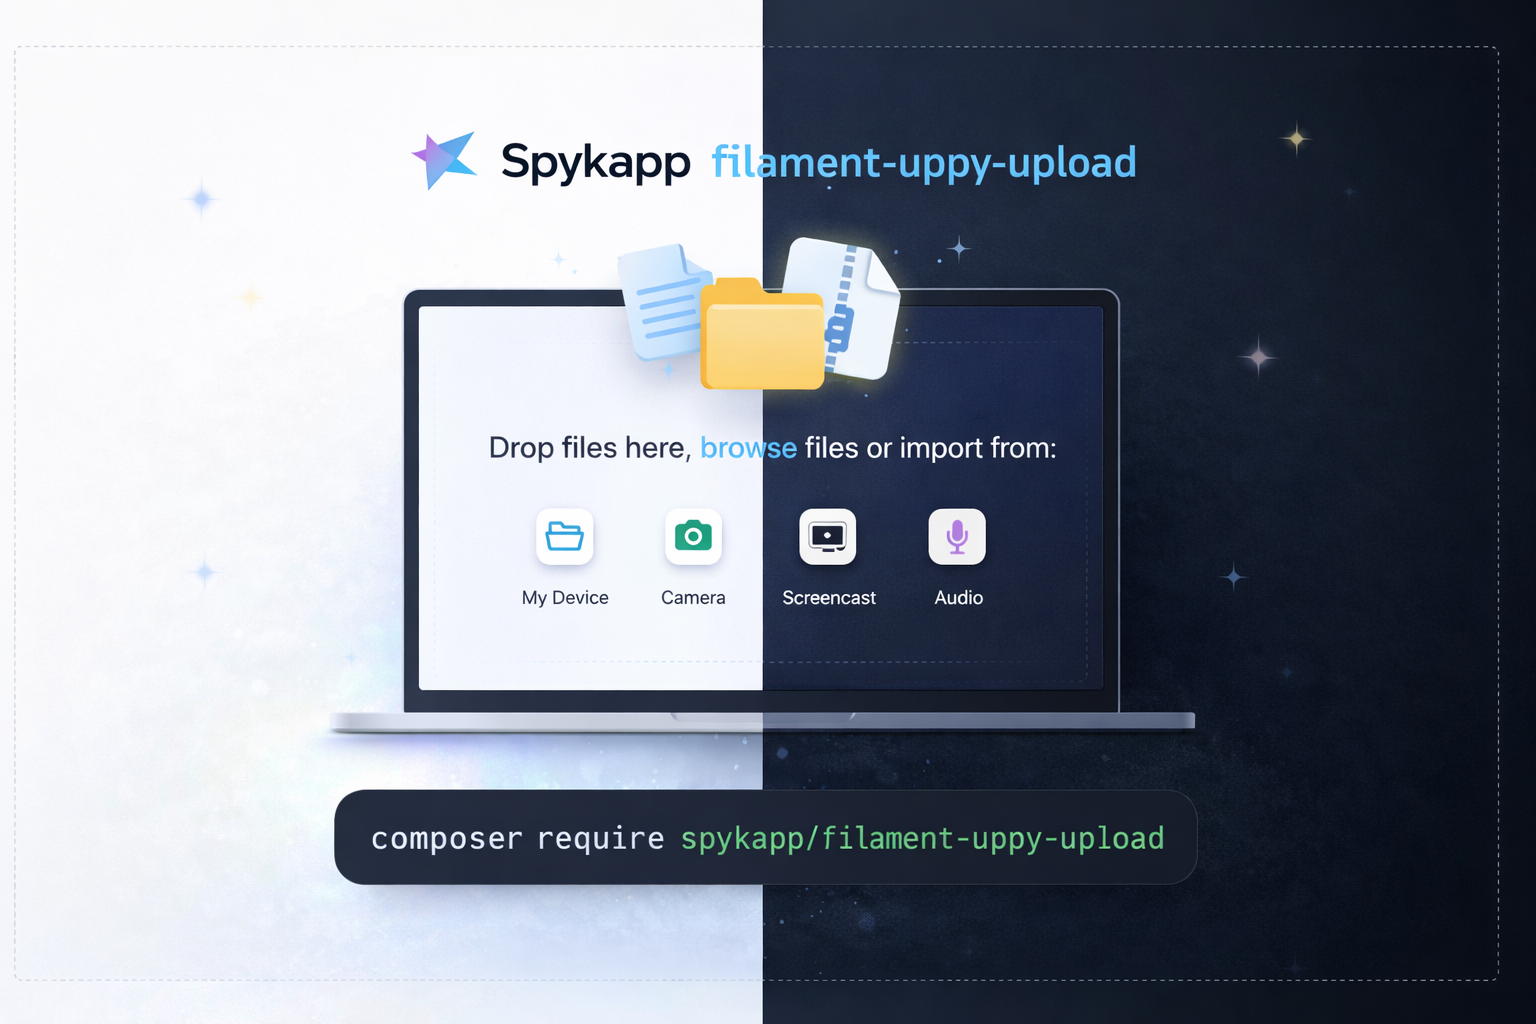
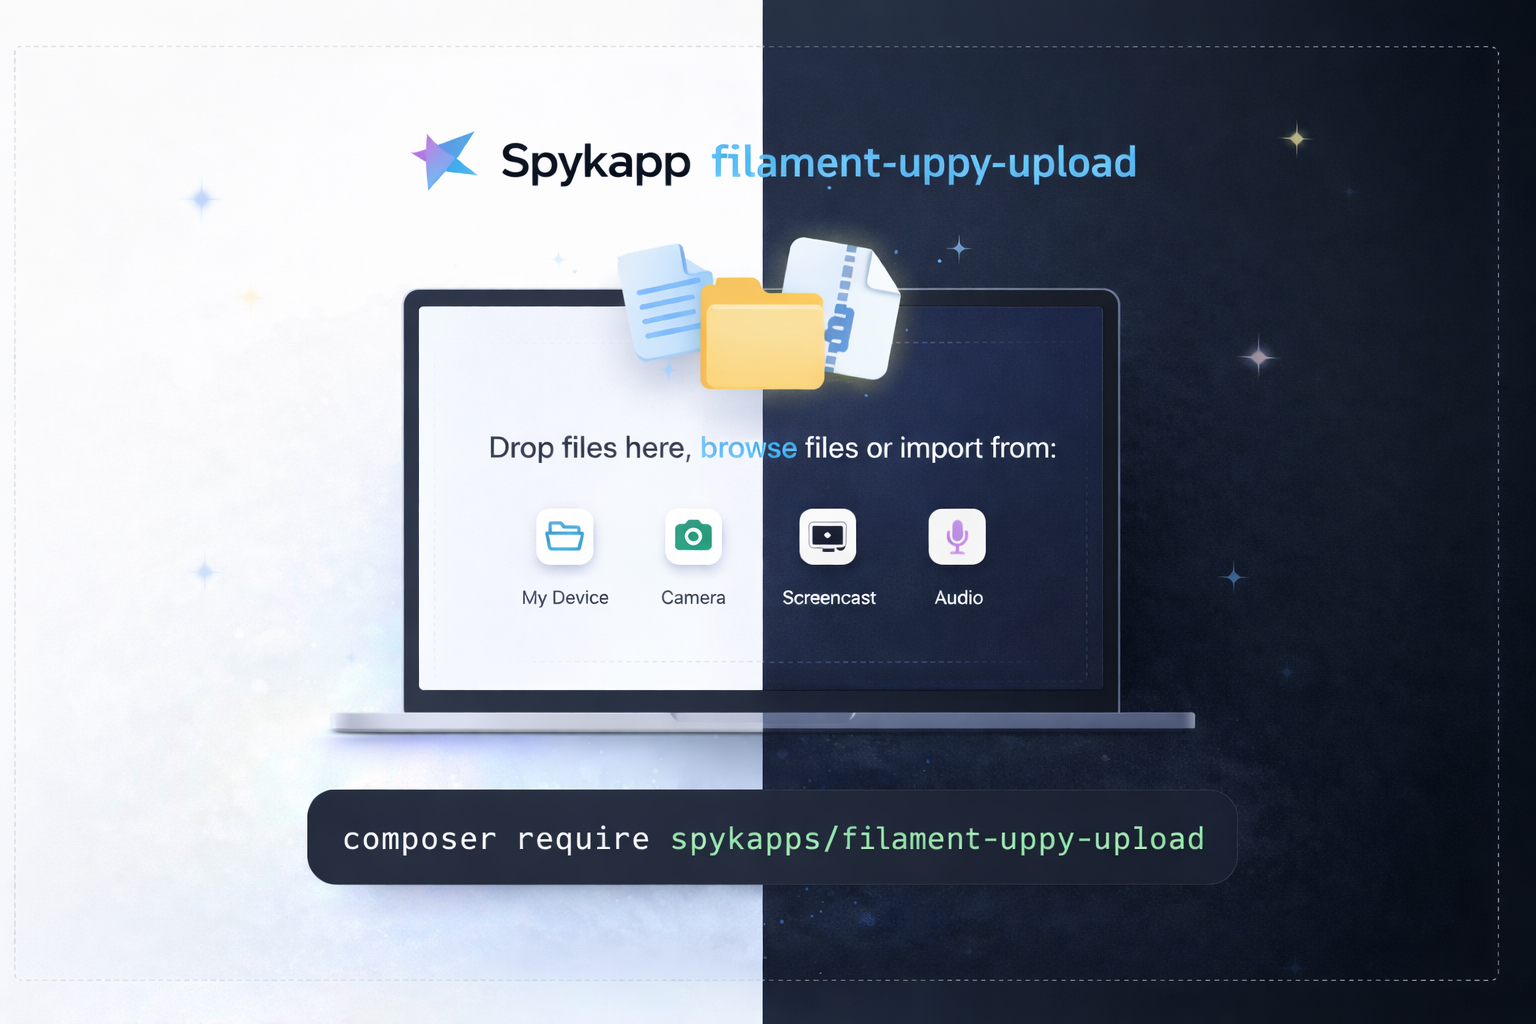
readme changes

Changed region(s): [[0.1875, 0.75, 0.7812, 0.875]]

diff --git a/README.md b/README.md
@@ -35,7 +35,7 @@ A powerful chunked file upload field for **Filament 4 & 5** using [Uppy.js](http
 ## Installation
 
 ```bash
-composer require spykapp/filament-uppy-upload
+composer require spykapps/filament-uppy-upload
 ```
 
 Publish and register Filament assets:
